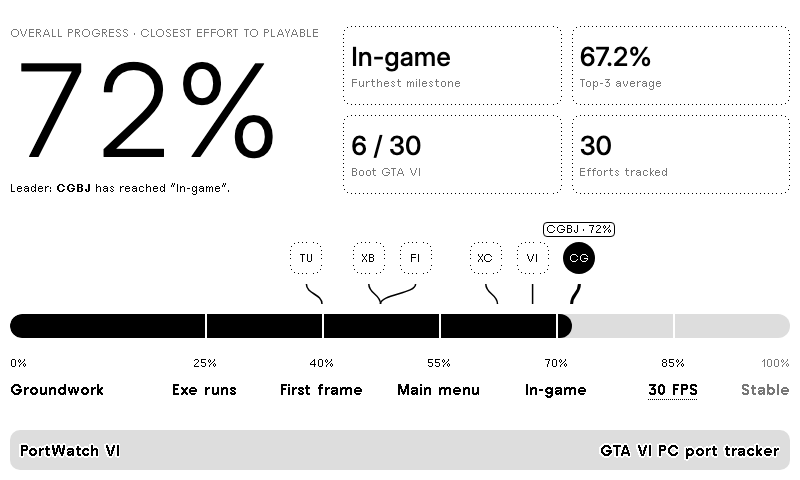
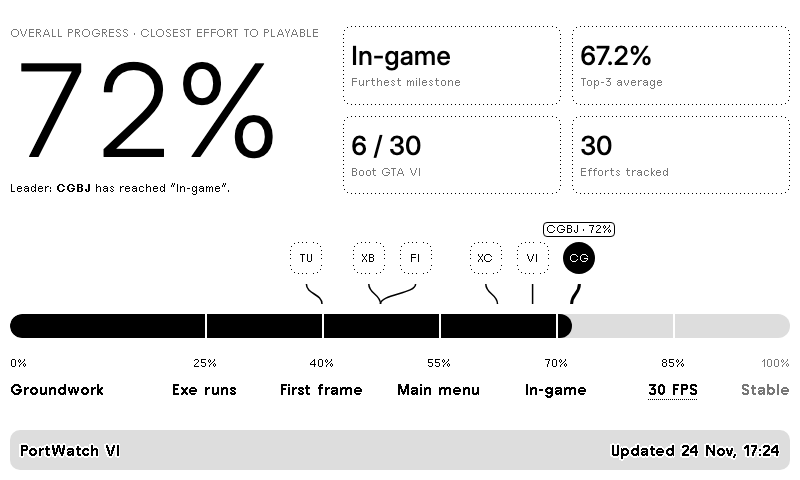
Show when the site last refreshed its data Brings back the site's `updated` time in data/trmnl.json and shows it in every view's title bar ("Updated 24 Nov, 17:24", device owner's time zone). The workflow now commits at each site refresh (~8 a day), not only when scores change. Co-Authored-By: Claud

diff --git a/README.md b/README.md
@@ -13,7 +13,7 @@ portwatch-vi.xyz/data/tracker.json   (~200 KB, refreshed every 3 hours by the si
   → GitHub workflow, every hour at :47 (.github/workflows/build-data.yml)
       1. scripts/build-data.mjs  scores every effort and writes data/trmnl.json (~2 KB)
       2. scripts/check-drift.mjs compares the result with the site's own scoring.js
-      3. commits data/trmnl.json, only if it changed
+      3. commits data/trmnl.json, only if it changed (each site refresh)
   → TRMNL polls data/trmnl.json and renders src/*.liquid
 ```
 
@@ -50,6 +50,8 @@ To set it up by hand instead, create a Private Plugin with the values of `src/se
 | Half vertical | Score, leader, 4 figures, bar, next milestone (too narrow for markers and milestone labels) |
 | Quadrant | Score, leader, top-3 average, boots, bar, next milestone |
 
+Every size shows, in its title bar, when PortWatch VI last refreshed its data ("Updated 24 Nov, 14:29", in the device owner's time zone).
+
 | Half horizontal | Half vertical | Quadrant |
 |---|---|---|
 | ![](docs/preview-half-horizontal.png) | ![](docs/preview-half-vertical.png) | ![](docs/preview-quadrant.png) |
@@ -62,6 +64,7 @@ Generated by `scripts/build-data.mjs`; never edit it by hand.
 
 | Field | Meaning | Example |
 |---|---|---|
+| `updated` | When the site last refreshed its data (ISO, UTC); shown in the title bar as "Updated 24 Nov, 14:29" in the device owner's time zone | `"2026-11-24T13:29:54.857Z"` |
 | `score` | Leader's score, 0–100 | `72` |
 | `leader` | Leader's name | `"CGBJ"` |
 | `leader_reached_label` | Last milestone the leader reached | `"In-game"` |

diff --git a/CLAUDE.md b/CLAUDE.md
@@ -11,7 +11,7 @@ The owner is a DevOps engineer, not a programmer. Documentation, comments and lo
 ```text
 portwatch-vi.xyz/data/tracker.json (~200 KB, updated every 3 h by the site's scout)
   → .github/workflows/build-data.yml (hourly)
-      → scripts/build-data.mjs   → data/trmnl.json (~2 KB), committed only when it changed
+      → scripts/build-data.mjs   → data/trmnl.json (~2 KB), committed only when it changed (each site refresh, ~8 a day)
       → scripts/check-drift.mjs  → fails if our scoring no longer matches the site's
 TRMNL polls raw.githubusercontent.com/nlhomme/trmnl-gtavi-portwatch/main/data/trmnl.json
   → renders src/*.liquid
